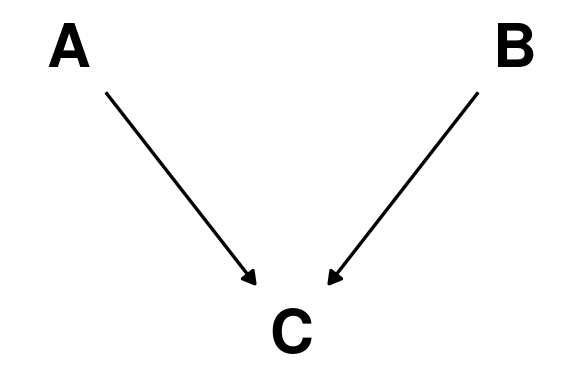
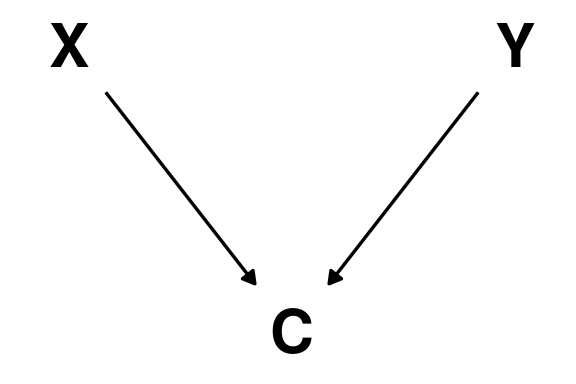
updated slides for causal workshop lecture

Changed region(s): [[0.8438, 0.0625, 0.9375, 0.1875], [0.0625, 0.0625, 0.1562, 0.1875]]

diff --git a/files/workshops/causal/RHUL_causal_intro.html b/files/workshops/causal/RHUL_causal_intro.html
@@ -520,6 +520,7 @@ then either:</p>
 <img data-src="RHUL_causal_intro_files/figure-revealjs/unnamed-chunk-3-1.png" class="quarto-figure quarto-figure-center r-stretch" width="576"></section>
 <section id="directed-acyclic-graphs-dags" class="slide level2">
 <h2>Directed Acyclic Graphs (DAGs)</h2>
+<p>&nbsp;</p>
 <div class="columns">
 <div class="column" style="width:50%;">
 <ul>
@@ -566,7 +567,7 @@ then either:</p>
 </div>
 </div></div>
 </section>
-<section id="acyclicity-in-dags" class="slide level2">
+<section id="acyclicity-in-dags" class="slide level2 nostretch">
 <h2>Acyclicity in DAGs</h2>
 <div>
 <ul>
@@ -574,8 +575,16 @@ then either:</p>
 <li><p>One way to deal with these is by adding nodes for repeated measures (e.g.&nbsp;crossed-lagged panel models)</p></li>
 </ul>
 </div>
-
-<img data-src="RHUL_causal_intro_files/figure-revealjs/unnamed-chunk-6-1.png" class="quarto-figure quarto-figure-center r-stretch" width="480"></section>
+<div class="cell" data-layout-align="center">
+<div class="cell-output-display">
+<div class="quarto-figure quarto-figure-center">
+<figure>
+<p><img data-src="RHUL_causal_intro_files/figure-revealjs/unnamed-chunk-6-1.png" class="quarto-figure quarto-figure-center" width="480"></p>
+</figure>
+</div>
+</div>
+</div>
+</section>
 <section id="measurement-errors" class="slide level2">
 <h2>“Measurement” errors</h2>
 <div class="columns">
@@ -721,9 +730,10 @@ then either:</p>
 </div>
 </div>
 <ul>
-<li class="fragment"><p><span class="math inline">\(A\)</span> and <span class="math inline">\(B\)</span> are independent of each other <span class="math inline">\(A \perp\!\!\!\perp  B\)</span></p></li>
+<li class="fragment"><p><span class="math inline">\(X\)</span> and <span class="math inline">\(Y\)</span> are independent of each other <span class="math inline">\(X \perp\!\!\!\perp  Y\)</span></p></li>
+<li class="fragment"><p><span class="math inline">\(C\)</span> is caused by both <span class="math inline">\(X\)</span> and <span class="math inline">\(Y\)</span></p></li>
 <li class="fragment"><p>They become dependent after we condition on the collider node <span class="math inline">\(C\)</span>;<br>
-formally <span class="math inline">\(A \not\!\perp\!\!\!\perp  B \mid C\)</span></p></li>
+(<span class="math inline">\(A \not\!\perp\!\!\!\perp  B \mid C\)</span>)</p></li>
 </ul>
 </section>
 <section id="cake-competition-example" class="slide level2 nostretch">
@@ -748,9 +758,15 @@ formally <span class="math inline">\(A \not\!\perp\!\!\!\perp  B \mid C\)</span>
 </div>
 </div>
 </div>
+<div class="fragment">
+<ul>
+<li class="fragment"><p>No association between <code>appearance</code> and <code>taste</code> in the ‘population’ of cakes</p></li>
+<li class="fragment"><p><code>appearance</code> and <code>taste</code> becomes negatively correlated once we condition our analysis on whether a cake was shortlisted or not.</p></li>
+</ul>
+</div>
 </section>
-<section id="d-separation" class="slide level2 nostretch">
-<h2>D-separation</h2>
+<section id="conditional-independencies-in-complex-dags-d-separation" class="slide level2 nostretch">
+<h2>Conditional independencies in complex DAGS (D-separation)</h2>
 <ul>
 <li class="fragment"><p>Realistic causal models are more complex and have more than 1 path between variables.</p></li>
 <li class="fragment"><p>D-separation (“D” stands for <em>directional</em>) is when some variables on a directed graphs are independent of others</p></li>
@@ -972,8 +988,8 @@ Luckily these questions can be addressed by mechanically applying logical rules,
 <li class="fragment"><p>This type of <em>local</em> test that is different from common practice (e.g.&nbsp;SEM) of estimating parameters for the whole model and interpreting some goodness of fit indices (e.g.&nbsp;RMSEA, etc.).</p></li>
 </ul>
 </section>
-<section id="interim-summary" class="slide level2">
-<h2>Interim summary</h2>
+<section id="testable-implications-of-dags-summary-1" class="slide level2">
+<h2>Testable implications of DAGS: summary</h2>
 <div>
 <ul>
 <li><p>DAGs have implications about the type of conditional and unconditional independencies that should be observed between the variables.</p></li>
@@ -1076,10 +1092,18 @@ When we have latent variables the output is not a unique DAG, but a a set of gra
 <h2>The ‘backdoor’ criterion</h2>
 <ol type="1">
 <li class="fragment"><p>List all of the paths connecting <span class="math inline">\(X\)</span> (the potential cause of interest) and <span class="math inline">\(Y\)</span> (the outcome).</p></li>
-<li class="fragment"><p>Classify each path by whether it is open or closed. A path is open unless it contains a collider.</p></li>
-<li class="fragment"><p>Classify each path by whether it is a backdoor path. A backdoor path has an arrow entering <span class="math inline">\(X\)</span>.</p></li>
-<li class="fragment"><p>If there are any open backdoor paths, decide which variable(s) to condition on to close it (if possible).</p></li>
+<li class="fragment"><p>Classify each path by whether it is open or closed.<br>
+A path is open unless it contains a collider.</p></li>
+<li class="fragment"><p>Classify each path by whether it is a <em>backdoor path</em>.<br>
+<u>A backdoor path has an arrow entering <span class="math inline">\(X\)</span>.</u></p></li>
+<li class="fragment"><p>For each open backdoor paths, decide which variable(s) to condition on to close it.</p></li>
 </ol>
+<div class="fragment">
+<p>&nbsp;</p>
+<div style="font-size: 80%;">
+<p><em>It may be the case that is not possible to close all backdoor paths, in which case one would conclude is not possible to estimate the causal effect from the available data.</em></p>
+</div>
+</div>
 </section>
 <section id="the-backdoor-criterion-example" class="slide level2">
 <h2>The ‘backdoor’ criterion: example</h2>
@@ -1153,22 +1177,35 @@ When we have latent variables the output is not a unique DAG, but a a set of gra
 <section id="reasons-why-dags-are-useful" class="slide level2">
 <h2>Reasons why DAGs are useful</h2>
 <ul>
-<li class="fragment"><p>DAGs help us reason explicitly about causal pathways among variables of interest.</p></li>
-<li class="fragment"><p>By expressing our theory as a DAG, we can use D-separation to derive and test specific its implications.</p></li>
+<li class="fragment"><p>DAGs help us reason <u>explicitly</u> about causal pathways among variables of interest.</p></li>
+<li class="fragment"><p>By expressing our theory as a DAG, we can use D-separation to derive and test its implications.</p></li>
 <li class="fragment"><p>Drawing a DAG and checking for backdoor paths provides a principled way to decide which variables to adjust for when estimating causal effects.</p></li>
-<li class="fragment"><p>Rather than enforcing a taboo on talking about causality from observational data, graphical causal models offer a rigorous, transparent method for stating and scrutinizing causal assumptions.</p></li>
+<li class="fragment"><p>Graphical causal models offer a rigorous, transparent method for stating and scrutinizing causal assumptions.</p></li>
 </ul>
+<aside class="notes">
+<p>DAGs and causal reasoning should probably be introduced as part of undergraduate teaching of statistics; they are a useful tool for critical thinking and equips students to evaluate data-based claims with clarity.</p>
+<style type="text/css">
+        span.MJX_Assistive_MathML {
+          position:absolute!important;
+          clip: rect(1px, 1px, 1px, 1px);
+          padding: 1px 0 0 0!important;
+          border: 0!important;
+          height: 1px!important;
+          width: 1px!important;
+          overflow: hidden!important;
+          display:block!important;
+      }</style></aside>
 </section>
 <section id="causal-inference-is-hard" class="slide level2">
 <h2>Causal inference is hard</h2>
 <ul>
 <li class="fragment"><p>Attempting to draw plausible a DAG can be a highly uncomfortable experience, as it fully exposes our uncertainty about our object of study.</p></li>
-<li class="fragment"><p>We should see this as a positive thing: DAGs make our assumptions transparent and easier to critique.</p></li>
-<li class="fragment"><p>Uncertainty about causal structure is common and can only be reduced by accumulating evidence from multiple designs, studies, and theories.</p></li>
-<li class="fragment"><p>A single study rarely offers conclusive evidence. In practice, establishing a convincing causal DAG requires broad, convergent evidence to constrain the plausible causal mechanisms.</p></li>
+<li class="fragment"><p><u>DAGs make our assumptions transparent and easier to critique.</u></p></li>
+<li class="fragment"><p>Unless we are able to intervene (RCT) a single study rarely offers conclusive evidence.</p></li>
+<li class="fragment"><p>Establishing a convincing causal DAG requires broad, convergent evidence from multiple design and studies to constrain the plausible causal mechanisms.</p></li>
 </ul>
 <aside class="notes">
-<p>Plausibility: foir example, parachute use during free fall reduces mortality, we don’t need an RCT for that.</p>
+<p>Plausibility: for example, parachute use during free fall reduces mortality, we don’t need an RCT for that.</p>
 <style type="text/css">
         span.MJX_Assistive_MathML {
           position:absolute!important;
@@ -1184,16 +1221,17 @@ When we have latent variables the output is not a unique DAG, but a a set of gra
 <section id="limitations-of-dags" class="slide level2">
 <h2>Limitations of DAGs</h2>
 <ul>
-<li class="fragment"><p>DAGs are “the simplest possible” representation; they clarify assumptions but do not replace fully mechanistic, dynamic models.</p></li>
-<li class="fragment"><p>Acyclic graphs can’t capture feedback or highly interconnected systems (e.g., the brain, economic systems). Such systems systems exhibit complexity (e.g.&nbsp;sensitivity dependence on initial conditions) that DAGs cannot capture.</p></li>
+<li class="fragment"><p>DAGs are “the simplest possible” model; they clarify assumptions but cannot replace fully mechanistic, dynamic models.</p></li>
+<li class="fragment"><p>Acyclic graphs can’t capture feedback or highly interconnected systems (e.g., the brain, the economy). Such systems systems exhibit complexity (e.g.&nbsp;sensitivity dependence on initial conditions) that DAGs cannot capture.</p></li>
 </ul>
 </section></section>
 <section id="references" class="title-slide slide level1 center">
 <h1>References</h1>
 <div>
 <ul>
-<li>Pearl, J. (2009). <em>Causality: Models, Reasoning, and Inference</em>. Cambridge University Press.</li>
 <li>McElreath, R. (2020). <em>Statistical rethinking: A Bayesian course with examples in R and Stan</em> (2nd ed.). Chapman and Hall/CRC</li>
+<li>Pearl, J., Glymour, M., &amp; Jewell, N. P. (2016). <em>Causal inference in statistics: A primer</em>. Wiley.</li>
+<li>Pearl, J. (2009). <em>Causality: Models, Reasoning, and Inference</em>. Cambridge University Press.</li>
 <li>Rohrer, J. M. (2018). Thinking clearly about correlations and causation: Graphical causal models for observational data. <em>Advances in Methods and Practices in Psychological Science, 1</em>(1), 27–42.</li>
 </ul>
 </div>
